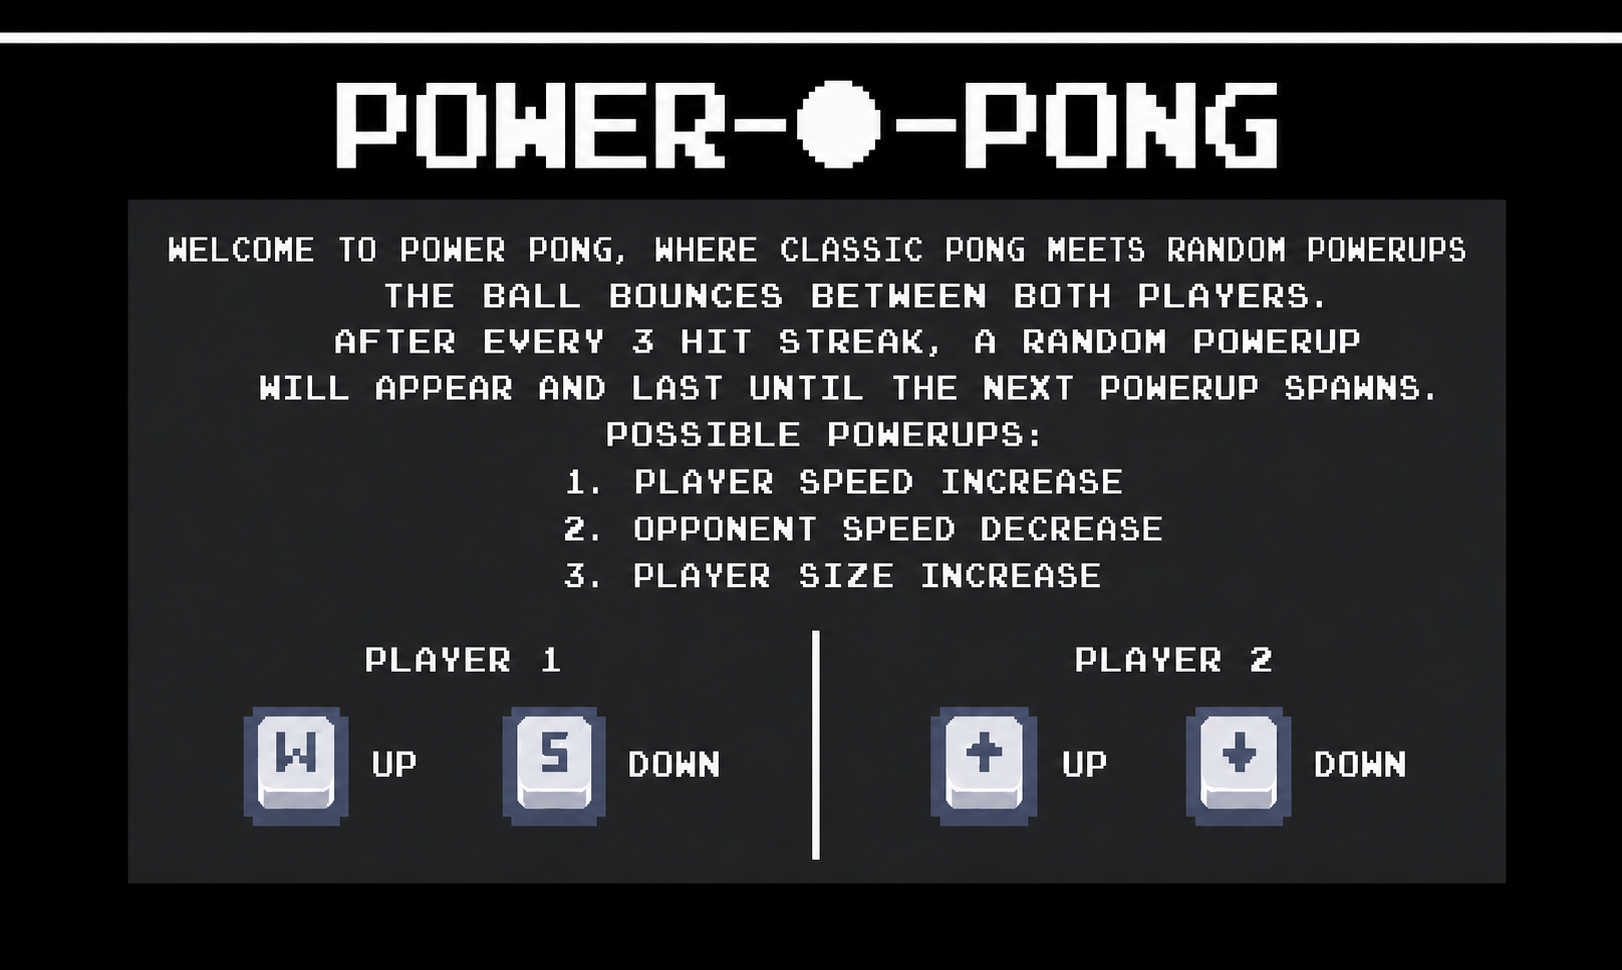
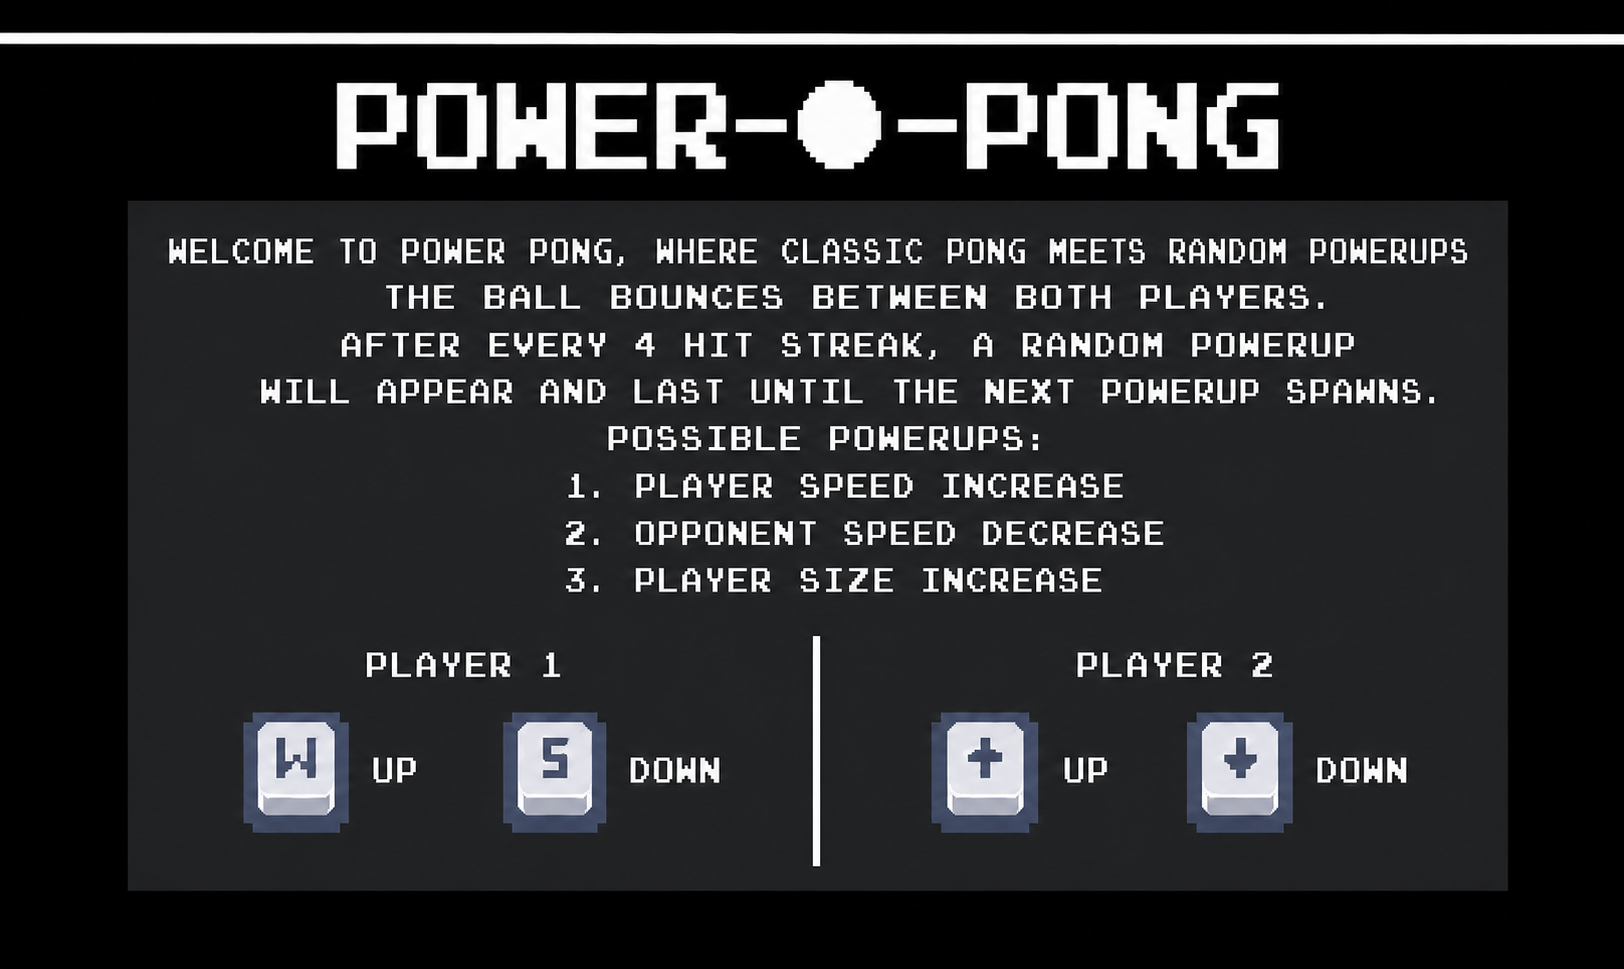
e

diff --git a/power_pong/game.java b/power_pong/game.java
@@ -21,6 +21,7 @@ public class game extends JPanel implements ActionListener, KeyListener, MouseLi
     int hitStreak = 0;
     int lastHitter = 0;
     boolean gameOver = false;
+    boolean paused = false;
 
     //player 1 paddle (left)
     int p1X = 60;
@@ -54,7 +55,7 @@ public class game extends JPanel implements ActionListener, KeyListener, MouseLi
     int powerupType = 0;
     int powerupX = 0;
     int powerupY = 0;
-    int powerupSize = 70;
+    int powerupSize = 73;
 
     public game() {
         setPreferredSize(new Dimension(WIDTH, HEIGHT));
@@ -74,6 +75,66 @@ public class game extends JPanel implements ActionListener, KeyListener, MouseLi
 
     public void paintComponent(Graphics g) {
         super.paintComponent(g);
+
+        //pause screen
+        if (paused) {
+            g.setColor(Color.BLACK);
+            g.fillRect(0, 0, WIDTH, HEIGHT);
+            g.setColor(Color.WHITE);
+            g.setFont(new Font("Courier New", Font.BOLD, 60));
+            g.drawString("PAUSED", 540, 260);
+
+            //resume button
+            if (mouseX > 500 && mouseX < 800 && mouseY > 300 && mouseY < 355) {
+                g.setColor(Color.WHITE);
+            } else {
+                g.setColor(Color.BLACK);
+            }
+            g.fillRect(500, 300, 300, 55);
+            g.setColor(Color.WHITE);
+            g.drawRect(500, 300, 300, 55);
+            if (mouseX > 500 && mouseX < 800 && mouseY > 300 && mouseY < 355) {
+                g.setColor(Color.BLACK);
+            } else {
+                g.setColor(Color.WHITE);
+            }
+            g.setFont(new Font("Courier New", Font.BOLD, 30));
+            g.drawString("RESUME", 593, 337);
+
+            //menu button
+            if (mouseX > 500 && mouseX < 800 && mouseY > 380 && mouseY < 435) {
+                g.setColor(Color.WHITE);
+            } else {
+                g.setColor(Color.BLACK);
+            }
+            g.fillRect(500, 380, 300, 55);
+            g.setColor(Color.WHITE);
+            g.drawRect(500, 380, 300, 55);
+            if (mouseX > 500 && mouseX < 800 && mouseY > 380 && mouseY < 435) {
+                g.setColor(Color.BLACK);
+            } else {
+                g.setColor(Color.WHITE);
+            }
+            g.drawString("MENU", 612, 417);
+
+            //exit button
+            if (mouseX > 500 && mouseX < 800 && mouseY > 460 && mouseY < 515) {
+                g.setColor(Color.WHITE);
+            } else {
+                g.setColor(Color.BLACK);
+            }
+            g.fillRect(500, 460, 300, 55);
+            g.setColor(Color.WHITE);
+            g.drawRect(500, 460, 300, 55);
+            if (mouseX > 500 && mouseX < 800 && mouseY > 460 && mouseY < 515) {
+                g.setColor(Color.BLACK);
+            } else {
+                g.setColor(Color.WHITE);
+            }
+            g.drawString("EXIT", 612, 497);
+            return;
+        }
+
         g.drawImage(bg, 0, 0, WIDTH, HEIGHT, this);
 
         //paddles
@@ -115,7 +176,7 @@ public class game extends JPanel implements ActionListener, KeyListener, MouseLi
                 g.drawString("PLAYER 2 WINS", 463, 300);
             }
 
-            //play again button
+            //exit button (small, left)
             if (mouseX > 370 && mouseX < 590 && mouseY > 335 && mouseY < 390) {
                 g.setColor(Color.WHITE);
             } else {
@@ -130,9 +191,9 @@ public class game extends JPanel implements ActionListener, KeyListener, MouseLi
                 g.setColor(Color.WHITE);
             }
             g.setFont(new Font("Courier New", Font.BOLD, 25));
-            g.drawString("PLAY AGAIN", 395, 372);
+            g.drawString("EXIT", 449, 372);
 
-            //menu button
+            //menu button (small, right)
             if (mouseX > 710 && mouseX < 930 && mouseY > 335 && mouseY < 390) {
                 g.setColor(Color.WHITE);
             } else {
@@ -148,7 +209,7 @@ public class game extends JPanel implements ActionListener, KeyListener, MouseLi
             }
             g.drawString("MENU", 787, 372);
 
-            //exit button
+            //play again button
             if (mouseX > 370 && mouseX < 930 && mouseY > 415 && mouseY < 470) {
                 g.setColor(Color.WHITE);
             } else {
@@ -162,13 +223,13 @@ public class game extends JPanel implements ActionListener, KeyListener, MouseLi
             } else {
                 g.setColor(Color.WHITE);
             }
-            g.drawString("EXIT", 616, 452);
+            g.drawString("PLAY AGAIN", 570, 452);
         }
     }
 
     public void actionPerformed(ActionEvent e) {
 
-        if (gameOver) {
+        if (gameOver || paused) {
             return;
         }
 
@@ -300,11 +361,9 @@ public class game extends JPanel implements ActionListener, KeyListener, MouseLi
     }
 
     public void checkPowerupSpawn() {
-        //spawn or respawn powerup at every streak multiple of 3
-        if (hitStreak > 0 && hitStreak % 3 == 0) {
-            //clear any active powerup first
+        //spawn or respawn powerup at every streak multiple of 4
+        if (hitStreak > 0 && hitStreak % 4 == 0) {
             clearActivePowerup();
-            //spawn new one
             powerupOnScreen = true;
             powerupX = random.nextInt(900) + 200;
             powerupY = random.nextInt(440) + 120;
@@ -379,34 +438,42 @@ public class game extends JPanel implements ActionListener, KeyListener, MouseLi
     }
 
     public void keyPressed(KeyEvent e) {
-        //player 1
-        if (e.getKeyCode() == KeyEvent.VK_W) {
-            p1Up = true;
-        }
-        if (e.getKeyCode() == KeyEvent.VK_S) {
-            p1Down = true;
-        }
-        //player 2
-        if (e.getKeyCode() == KeyEvent.VK_UP) {
-            p2Up = true;
-        }
-        if (e.getKeyCode() == KeyEvent.VK_DOWN) {
-            p2Down = true;
+        switch (e.getKeyCode()) {
+            case KeyEvent.VK_ESCAPE:
+                if (!gameOver) {
+                    paused = !paused;
+                    repaint();
+                }
+                break;
+            case KeyEvent.VK_W:
+                p1Up = true;
+                break;
+            case KeyEvent.VK_S:
+                p1Down = true;
+                break;
+            case KeyEvent.VK_UP:
+                p2Up = true;
+                break;
+            case KeyEvent.VK_DOWN:
+                p2Down = true;
+                break;
         }
     }
 
     public void keyReleased(KeyEvent e) {
-        if (e.getKeyCode() == KeyEvent.VK_W) {
-            p1Up = false;
-        }
-        if (e.getKeyCode() == KeyEvent.VK_S) {
-            p1Down = false;
-        }
-        if (e.getKeyCode() == KeyEvent.VK_UP) {
-            p2Up = false;
-        }
-        if (e.getKeyCode() == KeyEvent.VK_DOWN) {
-            p2Down = false;
+        switch (e.getKeyCode()) {
+            case KeyEvent.VK_W:
+                p1Up = false;
+                break;
+            case KeyEvent.VK_S:
+                p1Down = false;
+                break;
+            case KeyEvent.VK_UP:
+                p2Up = false;
+                break;
+            case KeyEvent.VK_DOWN:
+                p2Down = false;
+                break;
         }
     }
 
@@ -417,14 +484,15 @@ public class game extends JPanel implements ActionListener, KeyListener, MouseLi
         int x = e.getX();
         int y = e.getY();
 
-        //win screen buttons
-        if (gameOver) {
-            //play again button
-            if (x > 370 && x < 590 && y > 335 && y < 390) {
-                resetGame();
+        //pause screen buttons
+        if (paused) {
+            //resume button
+            if (x > 500 && x < 800 && y > 300 && y < 355) {
+                paused = false;
+                repaint();
             }
             //menu button
-            if (x > 710 && x < 930 && y > 335 && y < 390) {
+            if (x > 500 && x < 800 && y > 380 && y < 435) {
                 menu xy = new menu();
                 JFrame gameWindow = new JFrame("Menu");
                 gameWindow.add(xy);
@@ -437,8 +505,33 @@ public class game extends JPanel implements ActionListener, KeyListener, MouseLi
                 currentFrame.dispose();
             }
             //exit button
-            if (x > 370 && x < 930 && y > 415 && y < 470) {
+            if (x > 500 && x < 800 && y > 460 && y < 515) {
                 System.exit(0);
+            }
+        }
+
+        //win screen buttons
+        if (gameOver) {
+            //exit button (small, left)
+            if (x > 370 && x < 590 && y > 335 && y < 390) {
+                System.exit(0);
+            }
+            //menu button (small, right)
+            if (x > 710 && x < 930 && y > 335 && y < 390) {
+                menu xy = new menu();
+                JFrame gameWindow = new JFrame("Menu");
+                gameWindow.add(xy);
+                gameWindow.setUndecorated(true);
+                gameWindow.pack();
+                gameWindow.setDefaultCloseOperation(JFrame.EXIT_ON_CLOSE);
+                gameWindow.setLocationRelativeTo(null);
+                gameWindow.setVisible(true);
+                JFrame currentFrame = (JFrame) SwingUtilities.getWindowAncestor(this);
+                currentFrame.dispose();
+            }
+            //play again button (big, full width)
+            if (x > 370 && x < 930 && y > 415 && y < 470) {
+                resetGame();
             }
         }
     }